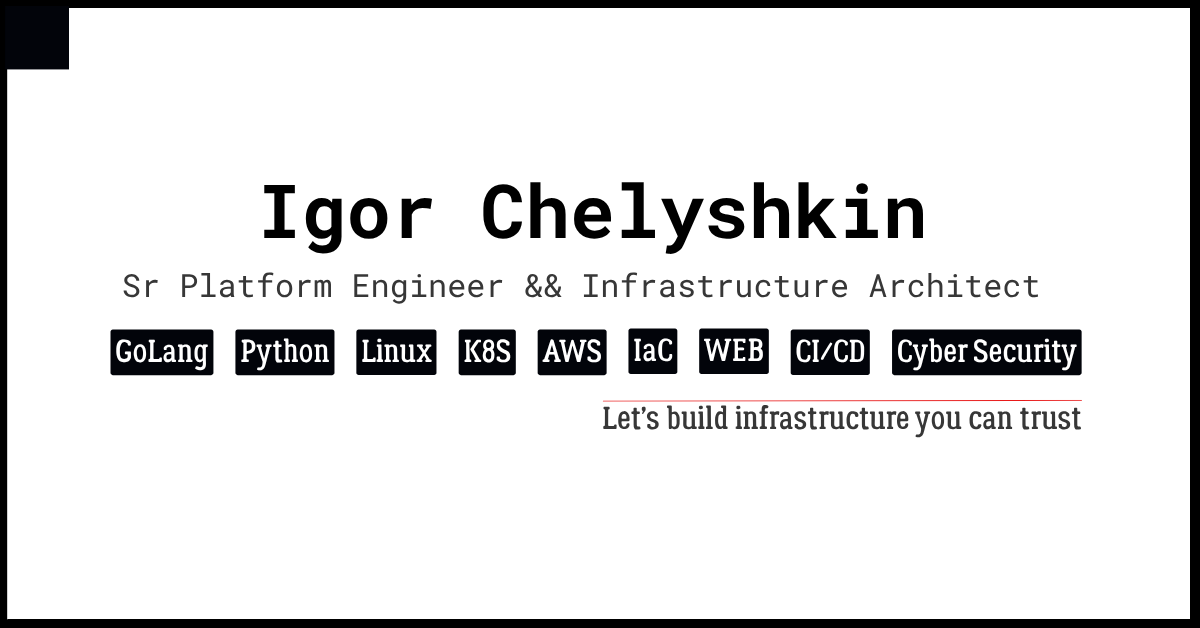
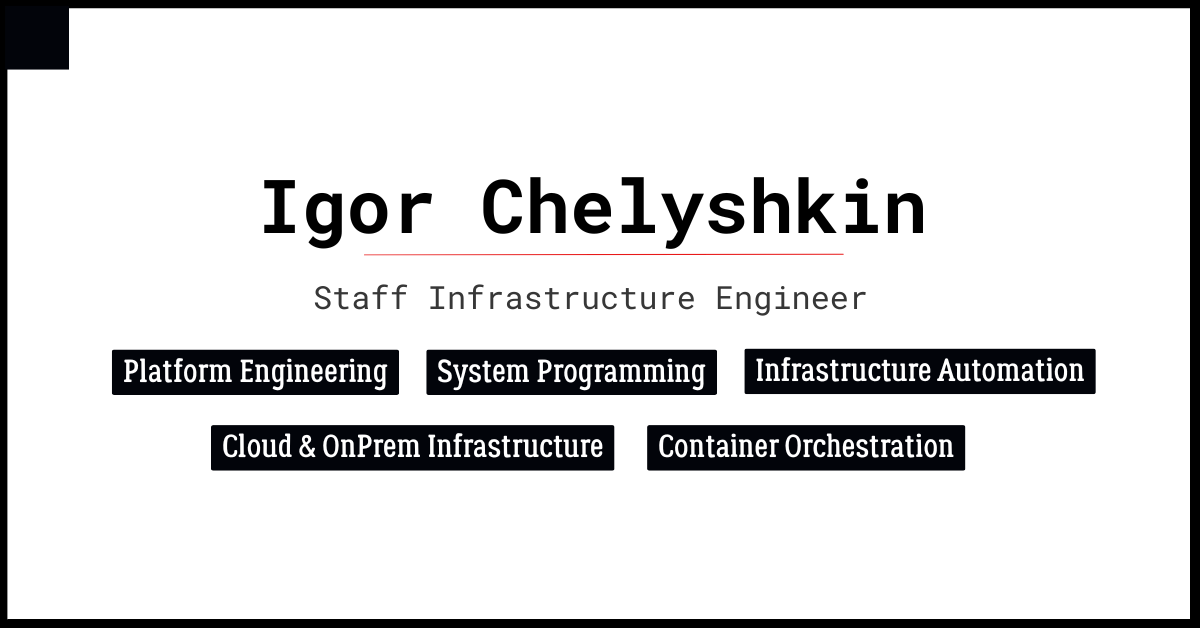
draft

Changed region(s): [[0.0925, 0.2723, 0.925, 0.7564], [0.0925, 0.4236, 0.1233, 0.4841]]

diff --git a/site/index.html b/site/index.html
@@ -13,25 +13,25 @@
     <meta name="viewport" content="width=device-width, initial-scale=1.0, maximum-scale=5.0">    
    
     <!-- SEO Meta Tags -->
-    <title>Igor Chelyshkin | Staff Engineer</title>
-    <meta name="description" content="Senior Platform Engineer & Infrastructure Architect with 10+ years in Cloud, Kubernetes, IaC, CI/CD, Full-Stack. Available for consulting, freelance, and full-time engagements.">
-    <meta name="keywords" content="platform engineer, staff engineer, devops, aws, kubernetes, terraform, infrastructure architect, devsecops, sre, golang, python, cloud migration, freelance, remote, consulting">
+    <title>Igor Chelyshkin | Staff Infrastructure Engineer</title>
+    <meta name="description" content="Igor Chelyshkin - Staff Infrastructure Engineer. Platform engineering, infrastructure automation, CI/CD systems.">
+    <meta name="keywords" content="staff engineer, platform engineering, infrastructure automation, igor chelyshkin">
    
     <!-- Open Graph Tags -->
-    <meta property="og:title" content="Igor Chelyshkin | Staff Engineer">
-    <meta property="og:description" content="10+ years delivering scalable, secure, cost-effective infrastructure solutions. Expertise in AWS, Kubernetes, Infrastructure as Code, CI/CD, and automation (Go, Python).">
-    <meta property="og:image" content="https://new.mr-chelyshkin.com/og-image.png">
+    <meta property="og:title" content="Igor Chelyshkin | Staff Infrastructure Engineer">
+    <meta property="og:description" content="Staff Infrastructure Engineer specializing in platform engineering and infrastructure automation. Helping teams scale through better tooling.">
+    <meta property="og:image" content="https://mr-chelyshkin.com/og-image.png">
     <meta property="og:image:width" content="1200">
     <meta property="og:image:height" content="630">
     <meta property="og:image:type" content="image/png">
-    <meta property="og:url" content="https://new.mr-chelyshkin.com">
+    <meta property="og:url" content="https://mr-chelyshkin.com">
     <meta property="og:type" content="website">
    
     <!-- Twitter Tags -->
     <meta name="twitter:card" content="summary_large_image">
-    <meta name="twitter:title" content="Igor Chelyshkin | Staff Engineer">
-    <meta name="twitter:description" content="10+ years delivering scalable, secure, cost-effective infrastructure solutions. Expertise in AWS, Kubernetes, Infrastructure as Code, CI/CD, and automation (Go, Python).">
-    <meta name="twitter:image" content="https://new.mr-chelyshkin.com/og-image.png">
+    <meta name="twitter:title" content="Igor Chelyshkin | Staff Infrastructure Engineer">
+    <meta name="twitter:description" content="Staff Infrastructure Engineer specializing in platform engineering and infrastructure automation. Helping teams scale through better tooling.">
+    <meta name="twitter:image" content="https://mr-chelyshkin.com/og-image.png">
   </head>
   <body>
     <div id="app"></div>

diff --git a/site/src/components/blocks/BlockHero.vue b/site/src/components/blocks/BlockHero.vue
@@ -42,7 +42,7 @@ const props = defineProps<Props>()
       </div>
       <div :class="$style.blockHeroBackgroundImage">
         <ItemDigitalImage
-          alt="Igor Chelyshkin - Staff Engineer"
+          alt="Igor Chelyshkin - Staff Infrastructure Engineer"
           format="webp"
           src="hero"
           folder=""

diff --git a/site/src/components/content/ContentCareerTimeline.vue b/site/src/components/content/ContentCareerTimeline.vue
@@ -63,7 +63,7 @@ defineProps<Props>()
     position: absolute;
     left: 2.5rem;
     top: 0.5rem;
-    bottom: 0;
+    bottom: 49px;
     width: 2px;
     background: #b3b3b3;
   }
